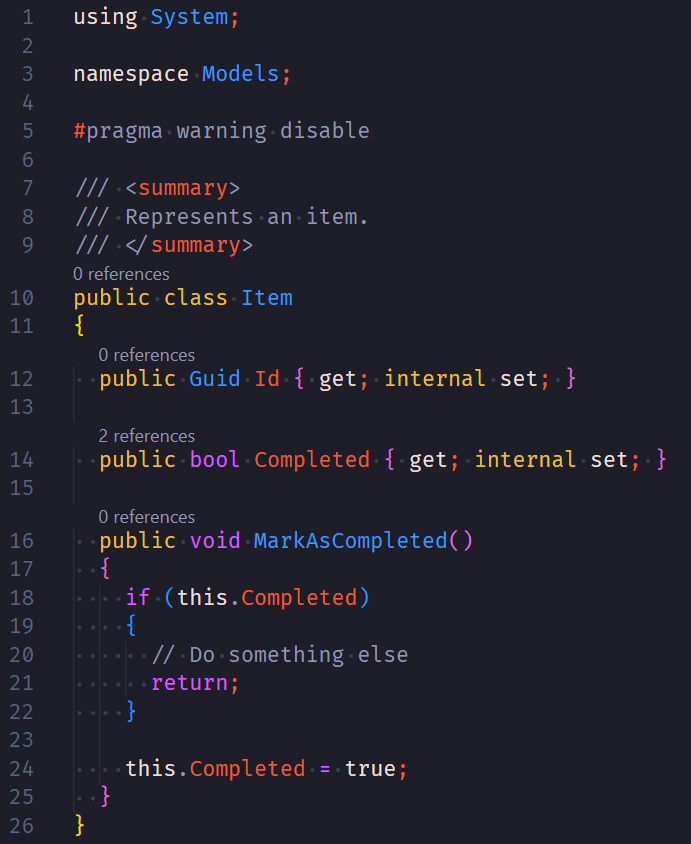
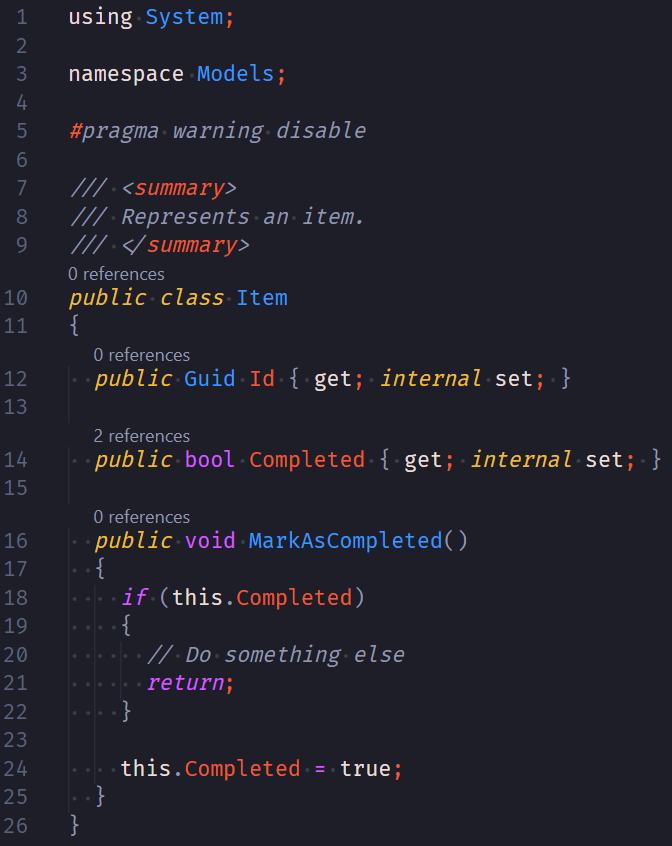
changed some token colors and updated the screenshots

diff --git a/src/token-colors.ts b/src/token-colors.ts
@@ -41,8 +41,8 @@ export const getTokenColors = (italic: boolean, {
     },
     {
       scope: [
-        'variable.other.property'
-      ],
+        'variable.other.property',
+        ],
       settings: {
         foreground: yellow,
       },
@@ -53,6 +53,14 @@ export const getTokenColors = (italic: boolean, {
       ],
       settings: {
         foreground: white,
+      }
+    },
+    {
+      scope: [
+        'support.type.primitive'
+      ],
+      settings: {
+        foreground: violet,
       }
     },
     {
@@ -202,7 +210,8 @@ export const getTokenColors = (italic: boolean, {
     },
     {
       scope: [
-        'variable.parameter'
+        'variable.parameter',
+        'entity.name.variable.parameter',
       ],
       settings: {
         fontStyle: getFontStyle(italic),
@@ -381,11 +390,36 @@ export const getTokenColors = (italic: boolean, {
       },
     },
     {
-      scope: ['meta.object'],
+      scope: [
+        'meta.object'
+      ],
       settings: {
         foreground: yellow,
       }
-    }
+    },
+    {
+      scope: [
+        'punctuation.definition.block',
+        'punctuation.definition.parameters',
+        'punctuation.parenthesis',
+        'punctuation.curlybrace',
+        'punctuation.squarebracket',
+        'meta.brace.round',
+        'meta.brace.square',
+        'meta.brace.curly',
+      ],
+      settings: {
+        foreground: comment,
+      },
+    },
+    {
+      scope: [
+        'keyword.other.is',
+      ],
+      settings: {
+        foreground: violet,
+      },
+    },
   ];
 
 const getFontStyle = (italic: boolean) => italic ? 'italic' : 'normal';

diff --git a/README.md b/README.md
@@ -1,8 +1,8 @@
 # Alignment theme
 
-VSCode theme inspired by the colors of [this music video](https://youtu.be/GbGFMiLufVc).
+VSCode theme inspired by the colors of the music video of [The Alignment by KELTEK](https://youtu.be/GbGFMiLufVc).
 
-Tested with only C# and JS.
+Tested only with C# and JS, so other languages may not look the best with it.
 
 ![](https://raw.githubusercontent.com/natixco/alignment-theme-vsc/main/screenshots/js.png)
 ![](https://raw.githubusercontent.com/natixco/alignment-theme-vsc/main/screenshots/cs.png)
